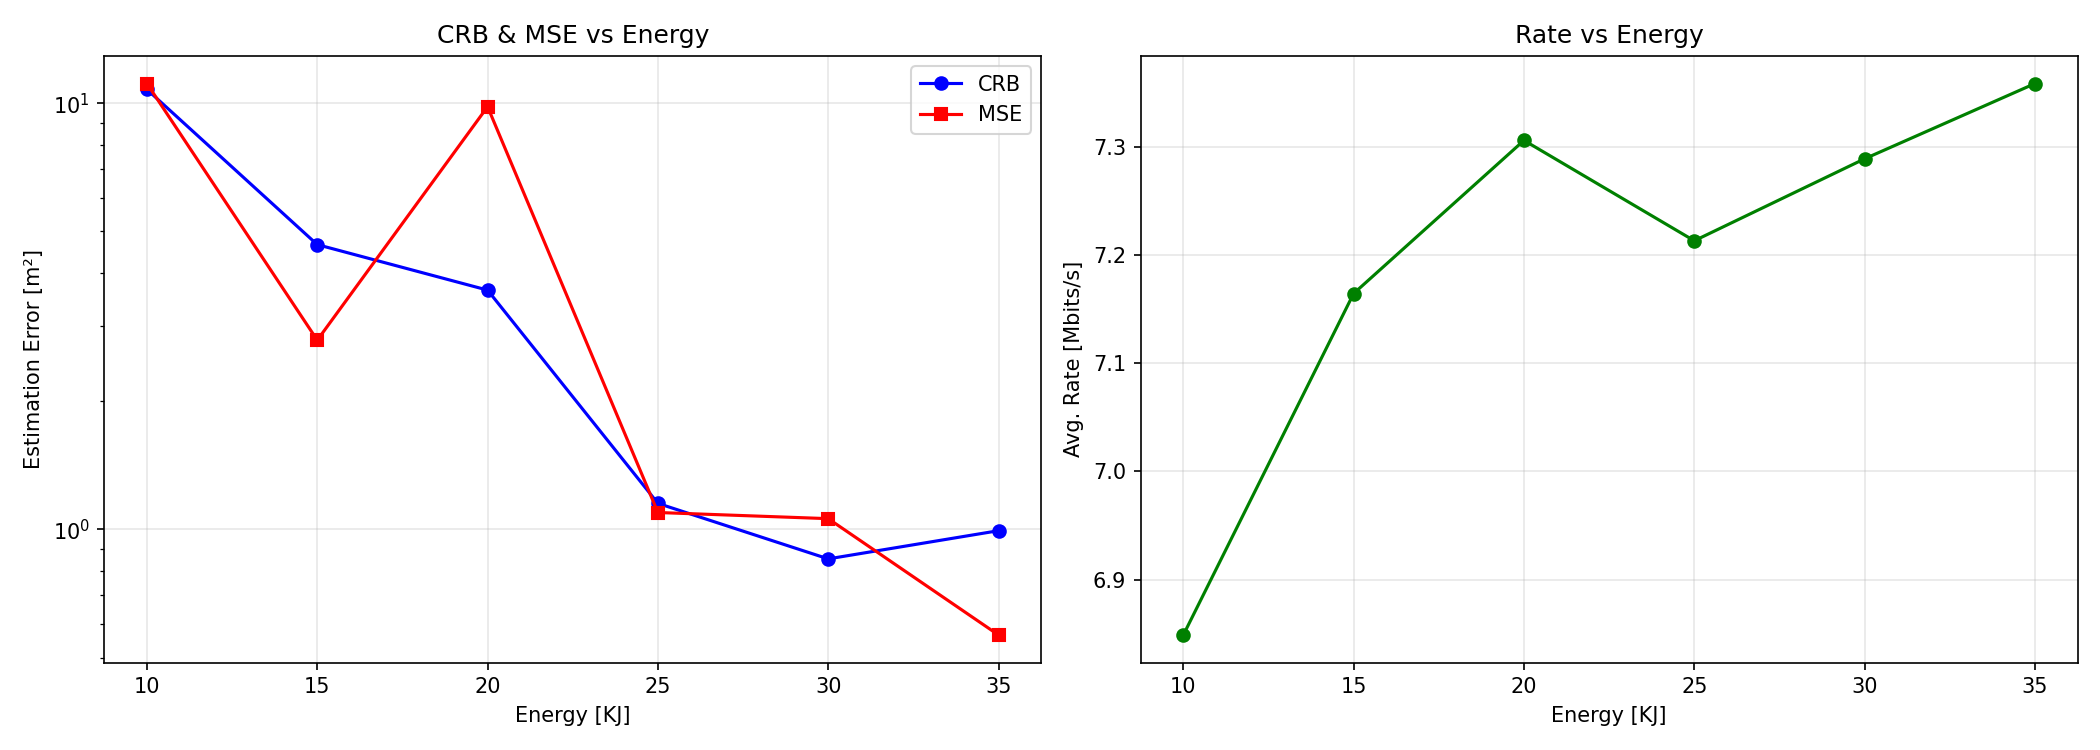
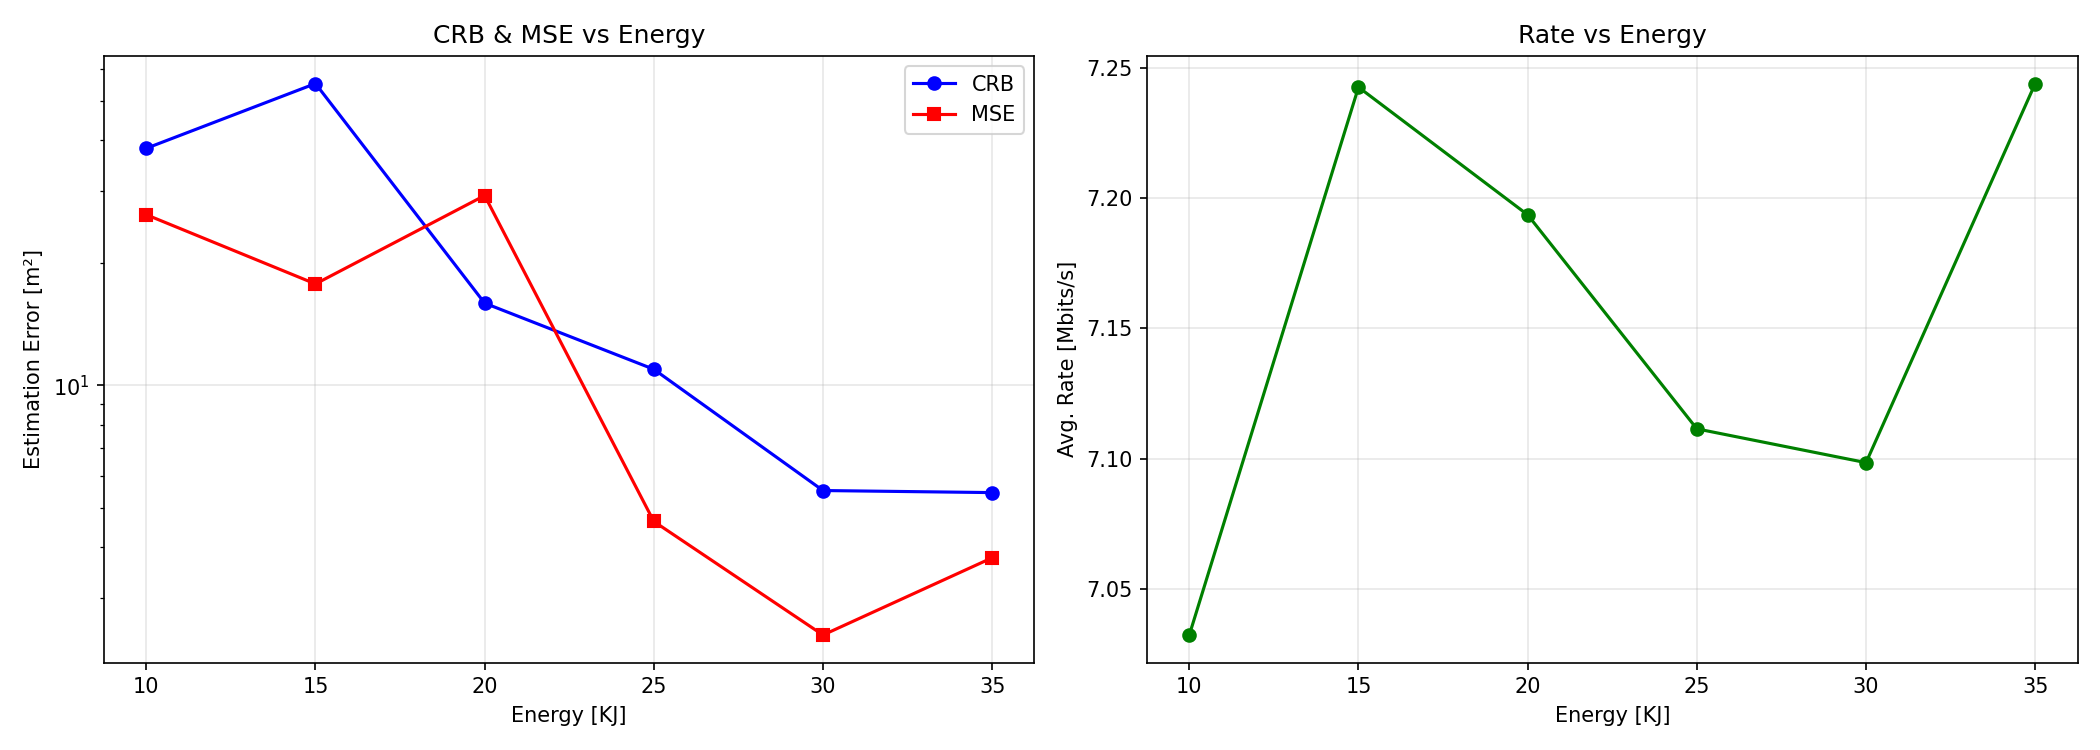
COmmit tu may tinh Lab

diff --git a/running_monte_carlo.py b/running_monte_carlo.py
@@ -5,7 +5,7 @@ from experiments import var_energy, var_eta
 def run_energy_experiment():
     print("\n=== Running Energy Variation Experiment ===")
     fig, energy_vec, CRB, MSE, Rate = var_energy(
-        n_mc=20,
+        n_mc=100,
         save_path="figures/energy_experiment.png"
     )
     plt.show()
@@ -14,7 +14,7 @@ def run_energy_experiment():
 def run_eta_experiment():
     print("\n=== Running Eta Variation Experiment ===")
     fig, eta_vec, CRB, MSE, Rate = var_eta(
-        n_mc=20,
+        n_mc=100,
         save_path="figures/eta_experiment.png"
     )
     plt.show()

diff --git a/models.py b/models.py
@@ -67,7 +67,7 @@ def propulsion_power(V_norm):
     inner = np.sqrt(1 + V_norm**4 / (4 * v_0**4)) - V_norm**2 / (2 * v_0**2)
     term2 = P_I * np.sqrt(np.maximum(inner, 0))
     # Note: MATLAB calc_real_energy.m uses V^2 here, not V^3 as in the paper
-    term3 = 0.5 * D_0 * rho * s_rotor * A_rotor * V_norm**2
+    term3 = 0.5 * D_0 * rho * s_rotor * A_rotor * V_norm**3
     return term1 + term2 + term3
 
 

diff --git a/experiments.py b/experiments.py
@@ -34,7 +34,7 @@ def monte_carlo(n_mc, setup_base, params_override=None, verbose=False):
     Rate_mc = np.zeros(n_mc)
     MSE_mc = np.zeros(n_mc)
 
-    n_cores = 1
+    n_cores = 10
     print(f"Using {n_cores} CPU cores...")
 
     args_list = [(mc, setup_base, params_override) for mc in range(n_mc)]
